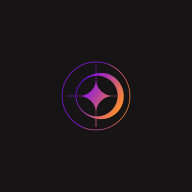
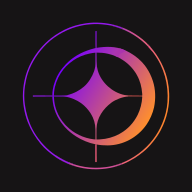
Fixes from looking at the merged UI
- Now is headed 'Now': the name went with the greeting.
- The logo is framed on the mark; the artwork was mostly empty canvas.
- Settings tabs fit a phone; seasonal anime uses a year picker and four
  season tabs instead of a long sideways strip.
- Year in review tile text no longer truncates.

Claude-Session: https://claude.ai/code/session_01RCjXejuG73AHKvBsmxPFCs

diff --git a/frontend/src/routes/upcoming/+page.svelte b/frontend/src/routes/upcoming/+page.svelte
@@ -7,7 +7,7 @@
 	import { MEDIA, titleHref } from '#lib/media.ts';
 	import { loadSettings, settings } from '#lib/settings.svelte.ts';
 	import type { SearchResult } from '#lib/types.ts';
-	import { Button, Chip, ChipRow, CopyField, EmptyState, IconButton, PosterCard, PosterGrid, PullToRefresh, Sheet, Skeleton, Tabs } from '#lib/ui/index.ts';
+	import { Button, CopyField, EmptyState, IconButton, PosterCard, PosterGrid, PullToRefresh, Sheet, Skeleton, Tabs } from '#lib/ui/index.ts';
 
 	let view = $state('agenda');
 	let events = $state<CalendarEvent[] | null>(null);
@@ -49,7 +49,6 @@
 	let picked_season = $state<SeasonRef | null>(null);
 	let titles = $state<SeasonalTitle[] | null>(null);
 	let seasonalError = $state(false);
-	let seasonChips = $state<HTMLElement>();
 
 	async function loadSeasons() {
 		try {
@@ -81,13 +80,27 @@
 	$effect(() => {
 		if (view === 'seasonal' && picked_season) void loadTitles(picked_season);
 	});
-	// Bring the chosen season into view in the chip strip (it is long: 7+ years).
-	$effect(() => {
-		void seasons;
-		void view;
-		void picked_season;
-		queueMicrotask(() => seasonChips?.querySelector('[aria-pressed="true"]')?.scrollIntoView({ inline: 'center', block: 'nearest' }));
-	});
+	// A year picker plus four season tabs: nothing to scroll sideways, however many years there are.
+	const SEASONS = ['winter', 'spring', 'summer', 'fall'];
+	const years = $derived([...new Set((seasons ?? []).map((s) => s.year))]);
+	const seasonOptions = $derived(
+		SEASONS.map((name) => ({
+			value: name,
+			label: name[0].toUpperCase() + name.slice(1),
+			disabled: !seasons?.some((s) => s.year === picked_season?.year && s.season === name)
+		}))
+	);
+	function pickSeason(name: string) {
+		const next = seasons?.find((s) => s.year === picked_season?.year && s.season === name);
+		if (next) picked_season = next;
+	}
+	/** Same season in another year, or that year's closest one at either end of the range. */
+	function pickYear(year: number) {
+		const inYear = seasons?.filter((s) => s.year === year) ?? [];
+		const at = SEASONS.indexOf(picked_season?.season ?? 'winter');
+		const next = [...inYear].sort((a, b) => Math.abs(SEASONS.indexOf(a.season) - at) - Math.abs(SEASONS.indexOf(b.season) - at))[0];
+		if (next) picked_season = next;
+	}
 
 	async function load() {
 		if (view === 'seasonal') {
@@ -190,15 +203,20 @@
 		<section class="mt-3" aria-label="Seasonal anime">
 			{#if seasons === null}
 				<Skeleton class="h-10 w-full" />
-			{:else if seasons.length}
-				<div bind:this={seasonChips} class="-mx-4 flex gap-2 overflow-x-auto px-4 pb-2 sm:-mx-6 sm:px-6 lg:mx-0 lg:px-0" role="group" aria-label="Season">
-					{#each seasons as sn, i (sn.label)}
-						{#if i === 0 || seasons[i - 1].year !== sn.year}<span class="shrink-0 self-center pl-2 text-xs font-semibold text-faint first:pl-0">{sn.year}</span>{/if}
-						<Chip selected={picked_season?.label === sn.label} onclick={() => (picked_season = sn)}>{sn.season[0].toUpperCase() + sn.season.slice(1)}</Chip>
-					{/each}
+			{:else if picked_season}
+				{@const year = picked_season.year}
+				<div class="max-w-md">
+					<div class="mb-2 flex items-center justify-between gap-2">
+						<IconButton icon={ChevronLeft} label="Previous year" disabled={year <= years[0]} onclick={() => pickYear(year - 1)} />
+						<select class="input w-auto text-center font-semibold" aria-label="Year" value={year} onchange={(e) => pickYear(Number(e.currentTarget.value))}>
+							{#each years as y (y)}<option value={y}>{y}</option>{/each}
+						</select>
+						<IconButton icon={ChevronRight} label="Next year" disabled={year >= years[years.length - 1]} onclick={() => pickYear(year + 1)} />
+					</div>
+					<Tabs label="Season" full value={picked_season.season} options={seasonOptions} onchange={pickSeason} />
 				</div>
 			{/if}
-			{#if picked_season}<h2 class="mt-2 mb-3 text-lg font-semibold">{picked_season.label}</h2>{/if}
+			{#if picked_season}<h2 class="mt-4 mb-3 text-lg font-semibold">{picked_season.label}</h2>{/if}
 			{#if titles === null}
 				<div class="grid grid-cols-3 gap-3 sm:grid-cols-4 lg:grid-cols-6" aria-hidden="true">{#each Array(12) as _, i (i)}<Skeleton class="aspect-[2/3] w-full" />{/each}</div>
 			{:else if titles.length === 0}

diff --git a/frontend/src/routes/year/[year]/+page.svelte b/frontend/src/routes/year/[year]/+page.svelte
@@ -74,7 +74,7 @@
 			{
 				label: 'Time reading',
 				value: r?.minutes ? minutesLabel(r.minutes).replace(/ \d+m$/, '') : '-',
-				sub: r?.minutes ? `${minutesLabel(r.minutes)} · ${r.sessions} session${r.sessions === 1 ? '' : 's'}` : 'no reading time logged',
+				sub: r?.minutes ? `${r.sessions} session${r.sessions === 1 ? '' : 's'}` : 'no reading time logged',
 				icon: Hourglass
 			},
 			{
@@ -148,7 +148,7 @@
 				<div class="rounded-[var(--radius-card)] border border-line bg-surface p-4">
 					<p class="flex items-center gap-1.5 text-xs text-muted"><card.icon class="size-3.5" />{card.label}</p>
 					<p class="mt-2 text-3xl font-semibold tracking-tight tabular-nums">{card.value}</p>
-					<p class="truncate text-xs text-faint">{card.sub}</p>
+					<p class="text-xs text-faint">{card.sub}</p>
 				</div>
 			{/each}
 		</div>

diff --git a/frontend/src/lib/components/settings/ImportsPanel.svelte b/frontend/src/lib/components/settings/ImportsPanel.svelte
@@ -211,7 +211,7 @@
 					{#snippet extra()}
 						{#if mal.configured}
 							<form onsubmit={importMal} class="mt-3 flex gap-2">
-								<input class="input min-w-0 flex-1" bind:value={malUser} required minlength="2" maxlength="16" placeholder="MyAnimeList username" aria-label="MyAnimeList username" autocapitalize="none" autocomplete="off" />
+								<input class="input min-w-0 flex-1" bind:value={malUser} required minlength="2" maxlength="16" placeholder="MAL username" aria-label="MyAnimeList username" autocapitalize="none" autocomplete="off" />
 								<Button type="submit" variant="primary" icon={Upload} loading={busy === 'mal'}>Import</Button>
 							</form>
 							<p class="mt-2 text-[0.75rem] text-faint">Your list must be public. Re-importing only adds entries and moves progress forward.</p>

diff --git a/frontend/src/routes/+page.svelte b/frontend/src/routes/+page.svelte
@@ -1,7 +1,6 @@
 <script lang="ts">
 	import { CheckCheck, Plus, Sparkles } from '@lucide/svelte';
 	import { get } from '#lib/api.ts';
-	import { auth } from '#lib/auth.svelte.ts';
 	import NowItem from '#lib/components/library/NowItem.svelte';
 	import SectionHead from '#lib/components/library/SectionHead.svelte';
 	import ReadingStrip from '#lib/components/ReadingStrip.svelte';
@@ -62,7 +61,7 @@
 <PullToRefresh onrefresh={load}>
 	<header class="mb-5 flex items-end justify-between gap-3">
 		<div class="min-w-0">
-			<h1 class="truncate text-2xl font-semibold tracking-tight capitalize sm:text-3xl">{auth.username}</h1>
+			<h1 class="truncate text-2xl font-semibold tracking-tight sm:text-3xl">Now</h1>
 			<p class="mt-1 h-5 text-[0.8125rem] text-faint">
 				{#if groups}{total} in progress{/if}
 			</p>

diff --git a/frontend/src/lib/ui/Tabs.svelte b/frontend/src/lib/ui/Tabs.svelte
@@ -71,9 +71,9 @@
 			tabindex={active ? 0 : -1}
 			disabled={option.disabled}
 			onclick={() => select(option.value)}
-			class="inline-flex min-h-11 items-center justify-center gap-1.5 px-3.5 text-sm font-medium whitespace-nowrap transition disabled:opacity-40 {full
-				? 'flex-1'
-				: ''} {variant === 'segmented'
+			class="inline-flex min-h-11 items-center justify-center gap-1.5 text-sm font-medium whitespace-nowrap transition disabled:opacity-40 {full
+				? 'flex-1 px-2'
+				: 'px-3.5'} {variant === 'segmented'
 				? `rounded-lg ${active ? 'bg-ink/12 text-ink' : 'text-muted hover:text-ink'}`
 				: `-mb-px border-b-2 ${active ? 'border-brand text-ink' : 'border-transparent text-muted hover:text-ink'}`}"
 		>

diff --git a/frontend/src/lib/components/TopBar.svelte b/frontend/src/lib/components/TopBar.svelte
@@ -10,7 +10,7 @@
 	class="sticky top-[env(safe-area-inset-top)] z-20 flex h-12 items-center justify-between gap-3 border-b border-line bg-canvas/85 px-4 backdrop-blur-xl sm:px-6 lg:px-10"
 >
 	<a href="/" class="flex items-center gap-2 lg:invisible" aria-label="Axiom home">
-		<img src="/icon.svg" alt="" class="size-6" />
+		<img src="/icon.svg" alt="" class="size-7 rounded-md" />
 		<span class="font-semibold tracking-tight">Axiom</span>
 	</a>
 	<nav aria-label="Quick links">

diff --git a/frontend/src/routes/settings/+page.svelte b/frontend/src/routes/settings/+page.svelte
@@ -75,7 +75,7 @@
 		<div class="space-y-4"><Skeleton class="h-40 w-full" /><Skeleton class="h-64 w-full" /></div>
 	{/if}
 {:else}
-	<Tabs label="Settings sections" variant="underline" class="mb-5" value={tab} options={tabOptions} onchange={pickTab} />
+	<Tabs label="Settings sections" variant="underline" full class="mb-5 max-w-2xl" value={tab} options={tabOptions} onchange={pickTab} />
 
 	<div class="max-w-2xl space-y-4">
 		{#if tab === 'general'}

diff --git a/frontend/src/routes/login/+page.svelte b/frontend/src/routes/login/+page.svelte
@@ -40,7 +40,7 @@
 
 	<form onsubmit={submit} class="relative w-full max-w-sm space-y-5">
 		<div class="mb-8 flex flex-col items-center gap-3 text-center">
-			<img src="/icon.svg" alt="" class="size-12" />
+			<img src="/icon.svg" alt="" class="size-12 rounded-xl" />
 			<h1 class="text-2xl font-semibold tracking-tight">Axiom</h1>
 			<p class="text-sm text-muted">Everything you watch and read, in one place.</p>
 		</div>

diff --git a/frontend/src/routes/+layout.svelte b/frontend/src/routes/+layout.svelte
@@ -61,7 +61,7 @@
 
 {#if !auth.ready}
 	<div class="grid min-h-dvh place-items-center">
-		<img src="/icon.svg" alt="" class="size-10 animate-pulse opacity-60" />
+		<img src="/icon.svg" alt="" class="size-10 animate-pulse rounded-lg opacity-60" />
 	</div>
 {:else if isLogin}
 	{@render children()}

diff --git a/frontend/src/lib/components/Nav.svelte b/frontend/src/lib/components/Nav.svelte
@@ -61,7 +61,7 @@
 	aria-label="Sidebar"
 >
 	<a href="/" class="mb-6 flex items-center gap-2.5 px-3">
-		<img src="/icon.svg" alt="" class="size-7" />
+		<img src="/icon.svg" alt="" class="size-7 rounded-md" />
 		<span class="text-[1.0625rem] font-semibold tracking-tight">Axiom</span>
 	</a>
 
